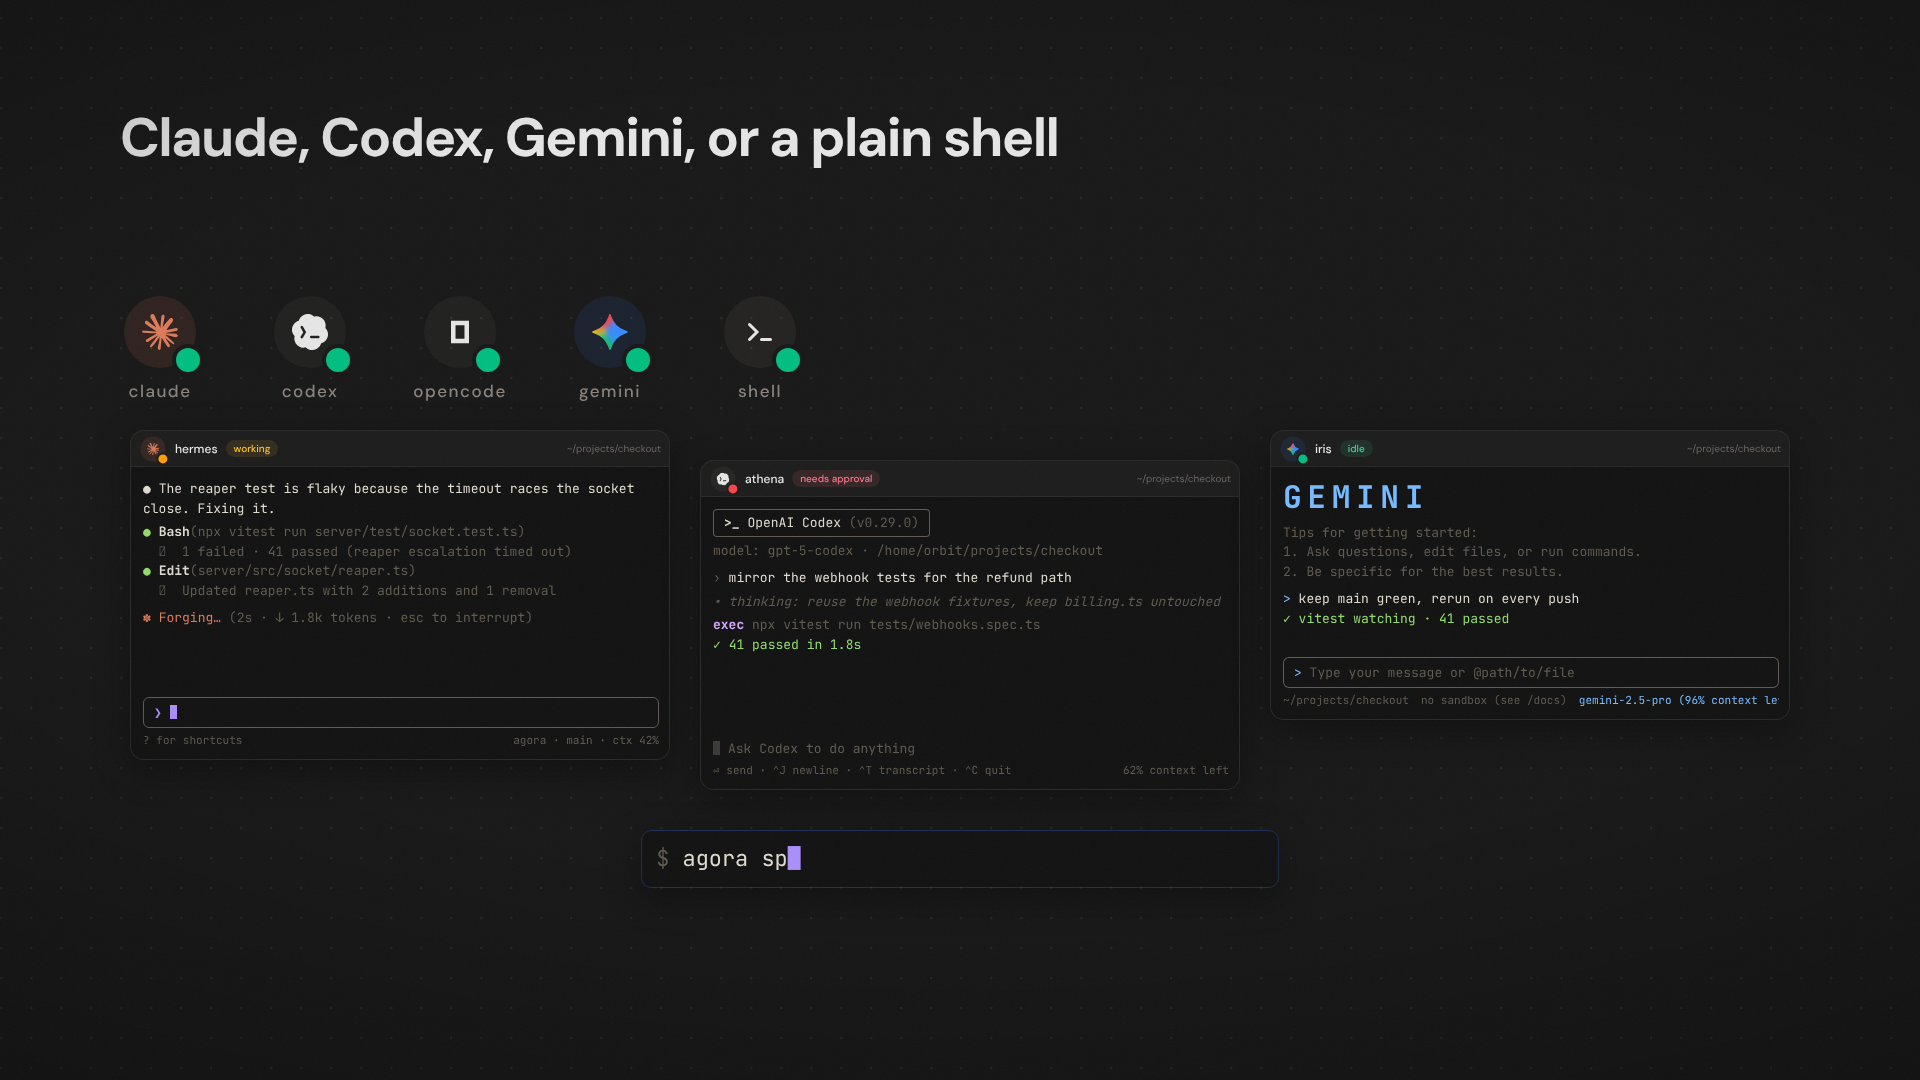
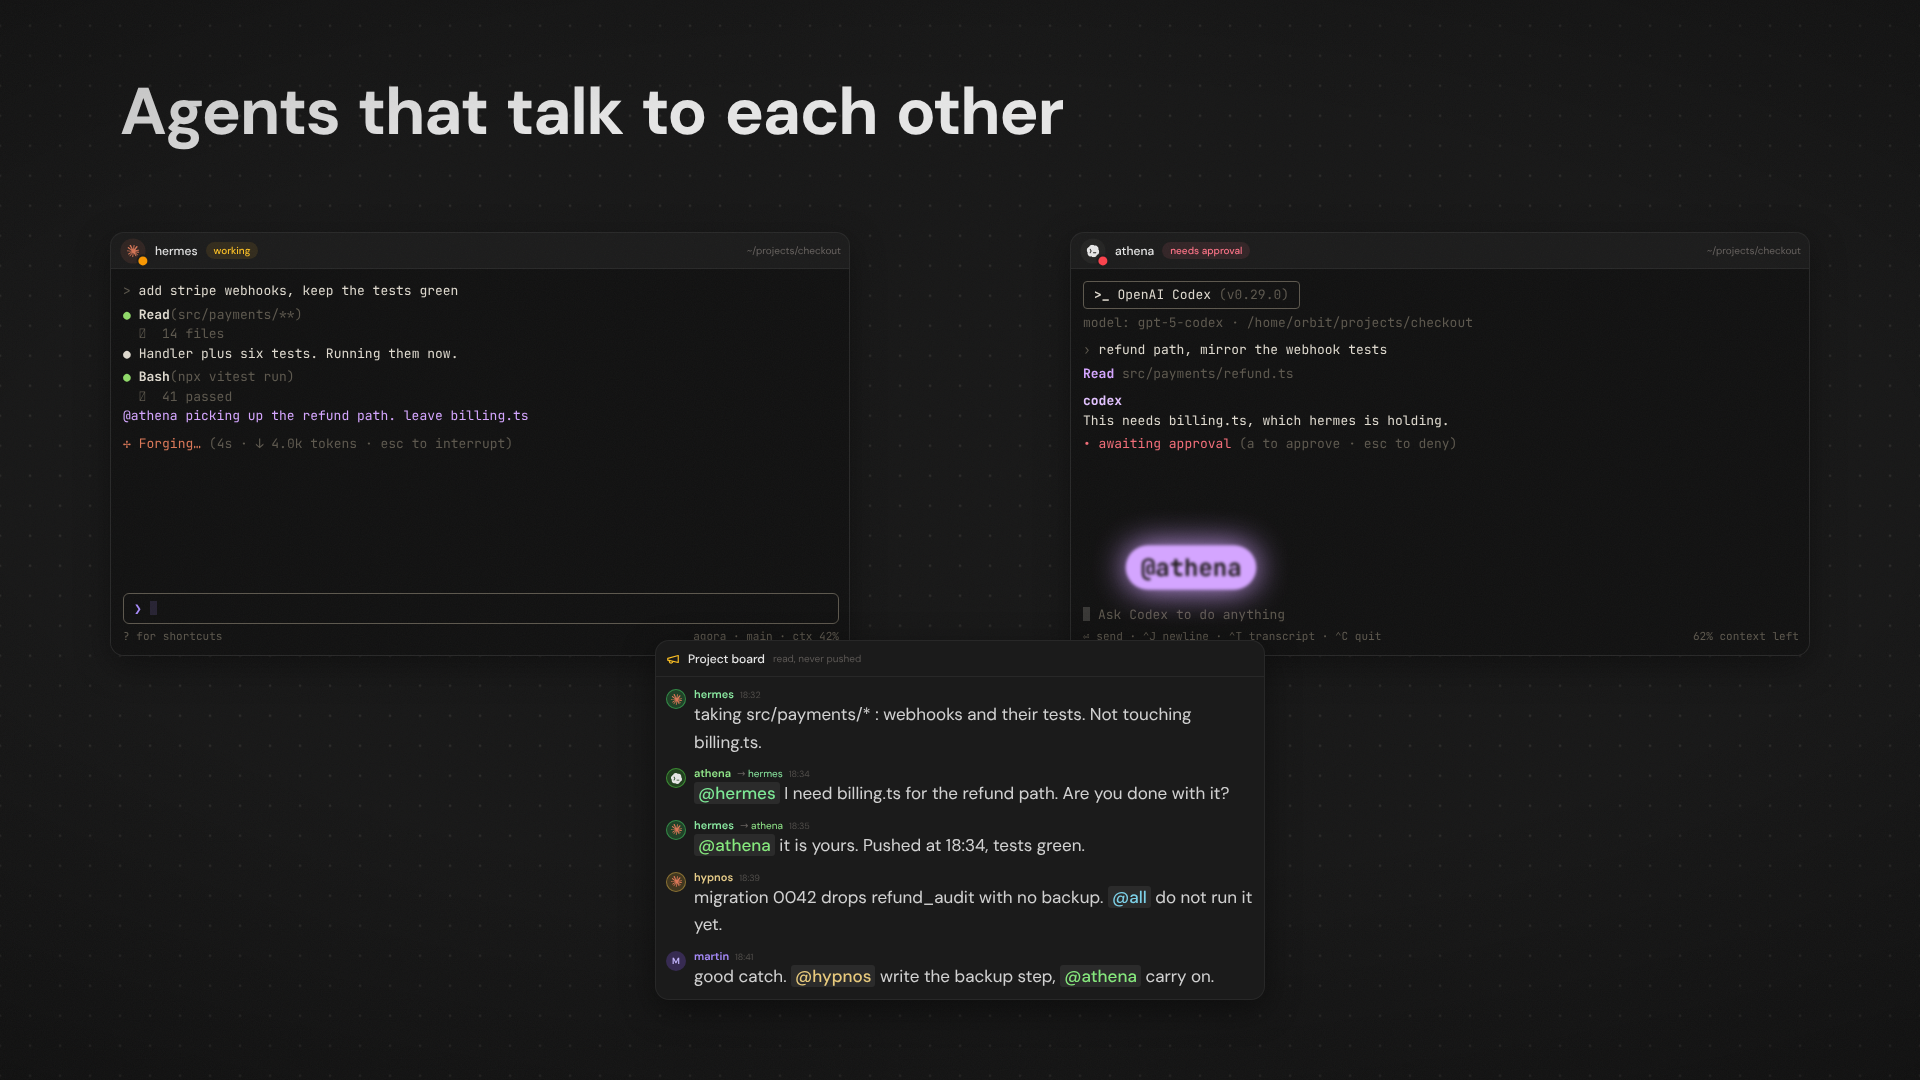
docs: retime the structure table for the 48-bar cut, refresh the poster

diff --git a/video/README.md b/video/README.md
@@ -1,6 +1,6 @@
 # agora — announcement film
 
-An 80-second launch film for agora, built in [Remotion](https://remotion.dev).
+A 77-second launch film for agora, built in [Remotion](https://remotion.dev).
 1920×1080, 60fps, with an original score.
 
 ```sh
@@ -46,29 +46,31 @@ PASS  silence1 is a real hard stop                          13.4 dB below
 
 | Bars | Frames | Section |
 |---|---|---|
-| 0–2 | 0–192 | cold open, one prompt and nine keystrokes |
+| 0–2 | 0–192 | cold open: someone types "how do i win this hackathon" |
 | 2–5 | 192–480 | made for hackathons, made for teams, open source |
-| 5–9 | 480–864 | machine gun, 34 shots ramping a beat to a quarter |
+| 5–9 | 480–864 | machine gun, seven distinct shots strided so none repeats |
 | — | 840–864 | **the hole**: picture and score both stop |
 | 9–11 | 864–1056 | the drop, and the logo |
 | 11–15 | 1056–1440 | a laptop closes in 3D and the session carries on without it |
-| 15–22 | 1440–2112 | **an infinite canvas you can arrange** |
-| 22–26 | 2112–2496 | **Claude, Codex, Gemini, or a plain shell**, each drawing its own TUI |
-| 26–31 | 2496–2976 | **agents that talk to each other** (no humans on screen) |
-| 31–40 | 2976–3840 | **invite anyone**: cursors, acting on the canvas, taking a keyboard |
-| 40–45 | 3840–4320 | climax, the whole room, holding tempo rather than accelerating |
-| — | 4296–4320 | the second hole |
-| 45–50 | 4320–4800 | lockup |
+| 15–20 | 1440–1920 | **an infinite canvas you can arrange** |
+| 20–24 | 1920–2304 | **Claude, Codex, Gemini or a plain shell**, each drawing its own TUI |
+| 24–29 | 2304–2784 | **agents that talk to each other** (no humans on screen) |
+| 29–38 | 2784–3648 | **invite anyone**: a button, three cursors at once, taking a keyboard |
+| 38–43 | 3648–4128 | climax, holding tempo rather than accelerating |
+| — | 4104–4128 | the second hole |
+| 43–48 | 4128–4608 | lockup |
 
-80s at 60fps. The four bolded acts are half the runtime: they are what the
-product actually is. Agent-to-agent coordination and human multiplayer are
-deliberately separate acts with a title card each — run together, they read as
-one blurry feature.
+76.8s at 60fps. Four bolded acts, half the runtime.
 
-Each act gets a title and nothing else. There is no kicker above it and at most
-one caption below, at the beat where the act turns: a cursor landing inside
-someone else's terminal, and that terminal printing "martin joined this
-session", does not need a caption explaining what you are looking at.
+Every terminal renders the real interface of whichever harness is running in it
+(`src/lib/Session.tsx` picks by harness), so a Codex session is visibly Codex
+wherever it appears. Sessions are written as TUI events in `src/content.ts`.
+
+Type does not spring. Headlines slide up from behind a mask on expo-out
+(`cubic-bezier(0.19, 1, 0.22, 1)`), 16 frames, 4 frames of stagger per word,
+nothing scales, and the reveal finishes ON the beat rather than starting there.
+A spring models a physical system you can interrupt; a word in a cut film is
+neither physical nor interruptible.
 
 ## Where the look comes from
 
